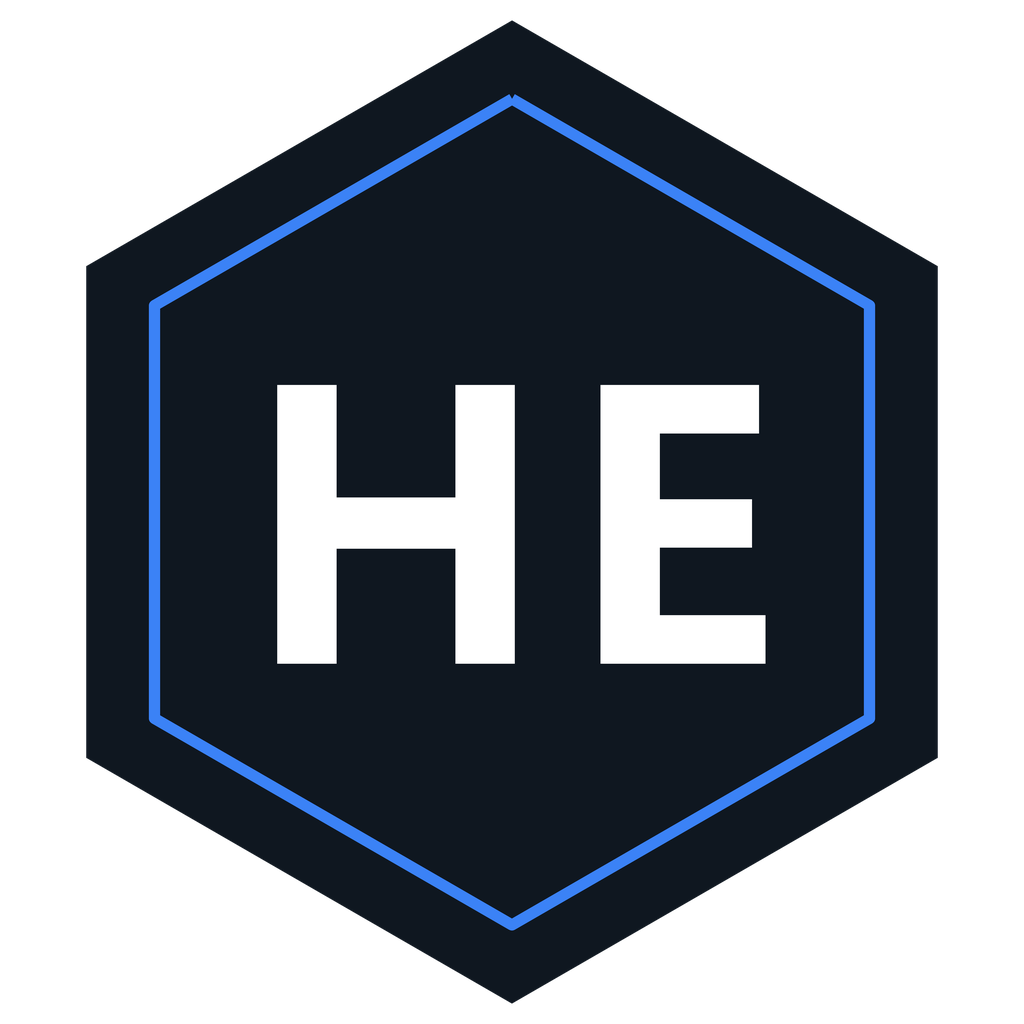
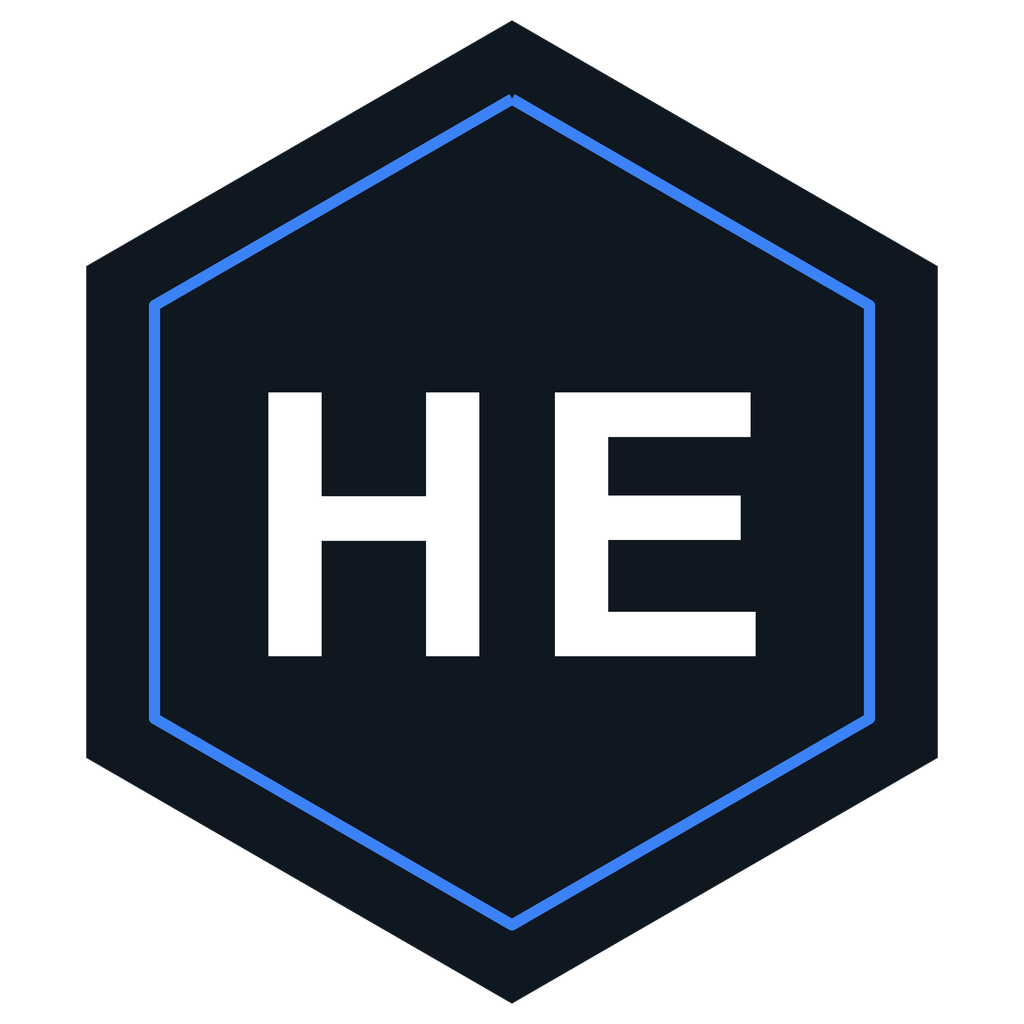
fix(branding): balance the HE wordmark and center it by ink bounds
字标此前视觉失衡，根因不在居中而在字体：

- 微软雅黑是中文优先字体，拉丁部分被压窄，H 的 advance 比 E 宽 44%
  (164 vs 114 @200px)，两个字并排必然一宽一窄。改用 Arial Bold，
  其 H/E 为 144/133 = 1.08，才是西文字体的正常比例。
- draw_centered 旧实现依赖字体 advance 报告，且垂直定位硬编码用字母 "D"
  测高。改为先渲染到独立图层、用 getbbox() 量出真实墨迹包围盒再平移，
  与字体度量无关。
- 标题栏 HE 徽标同步指定 Arial，与图标字形一致。

实测：墨迹左右边距差 18px -> 0px，H/E 宽度比 1.45 -> 1.05。

Changed region(s): [[0.5312, 0.375, 0.75, 0.6562], [0.25, 0.375, 0.5, 0.6562]]

diff --git a/Plain Craft Launcher 2/FormMain.xaml b/Plain Craft Launcher 2/FormMain.xaml
@@ -154,7 +154,7 @@
                             <TextBlock Grid.Column="0" x:Name="LabTitleLogo" Visibility="Collapsed" SnapsToDevicePixels="False" UseLayoutRounding="False" IsHitTestVisible="False" HorizontalAlignment="Left" Margin="18,0,0,0" Foreground="White" FontSize="17" VerticalAlignment="Center" />
                             <local:MyImage Grid.Column="0" x:Name="ImageTitleLogo" SnapsToDevicePixels="False" UseLayoutRounding="False" IsHitTestVisible="False" HorizontalAlignment="Left" Margin="7" VerticalAlignment="Center" Visibility="Collapsed" />
                             <Border x:Name="CELogo" Grid.Column="1" SnapsToDevicePixels="False" UseLayoutRounding="False" IsHitTestVisible="False" HorizontalAlignment="Left" Margin="10,0,0,0" Background="#D9101319" BorderBrush="#33FFFFFF" BorderThickness="1" CornerRadius="5" Height="19" Width="26">
-                                <TextBlock Text="HE" Foreground="White" FontSize="10.5" FontWeight="Bold" HorizontalAlignment="Center" VerticalAlignment="Center" />
+                                <TextBlock Text="HE" FontFamily="Arial" Foreground="White" FontSize="10.5" FontWeight="Bold" HorizontalAlignment="Center" VerticalAlignment="Center" />
                             </Border>
                         </Grid>
                         <StackPanel Grid.Column="1" x:Name="PanTitleSelect" HorizontalAlignment="Left" Height="27"
